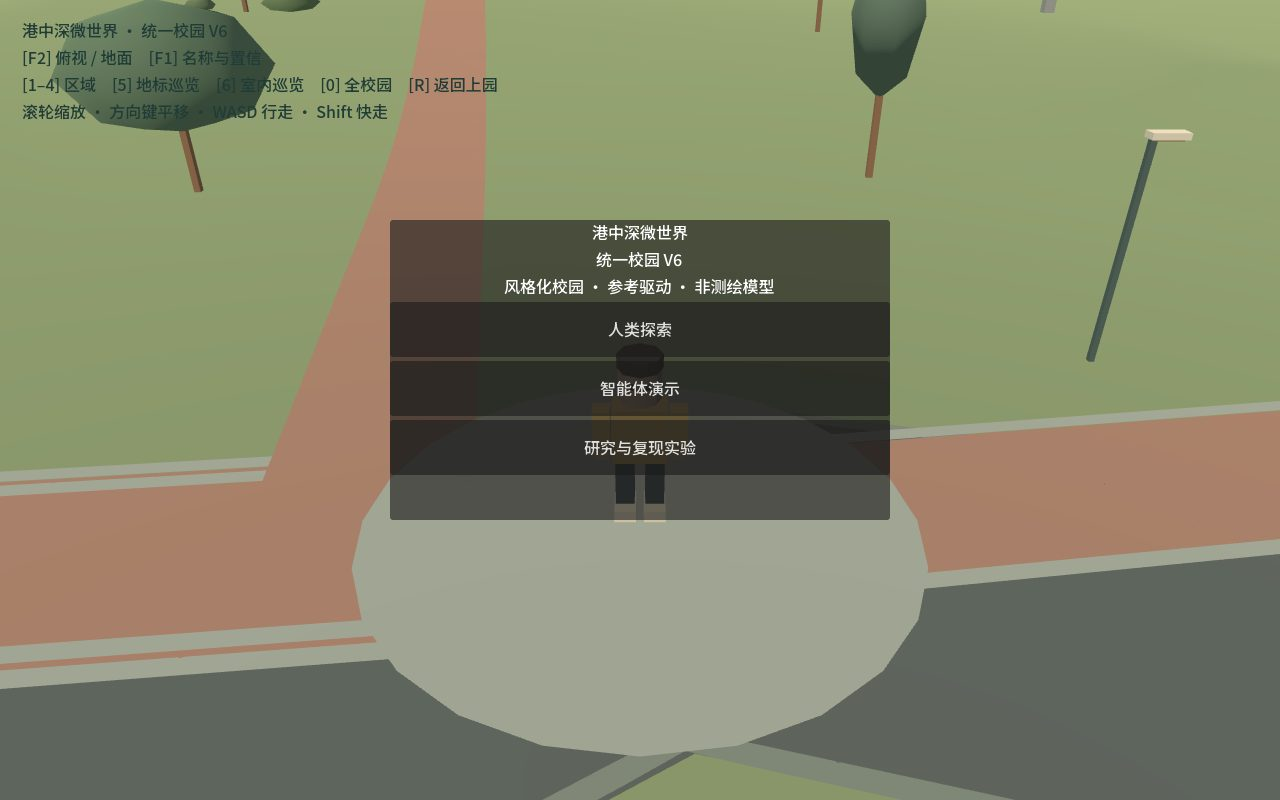
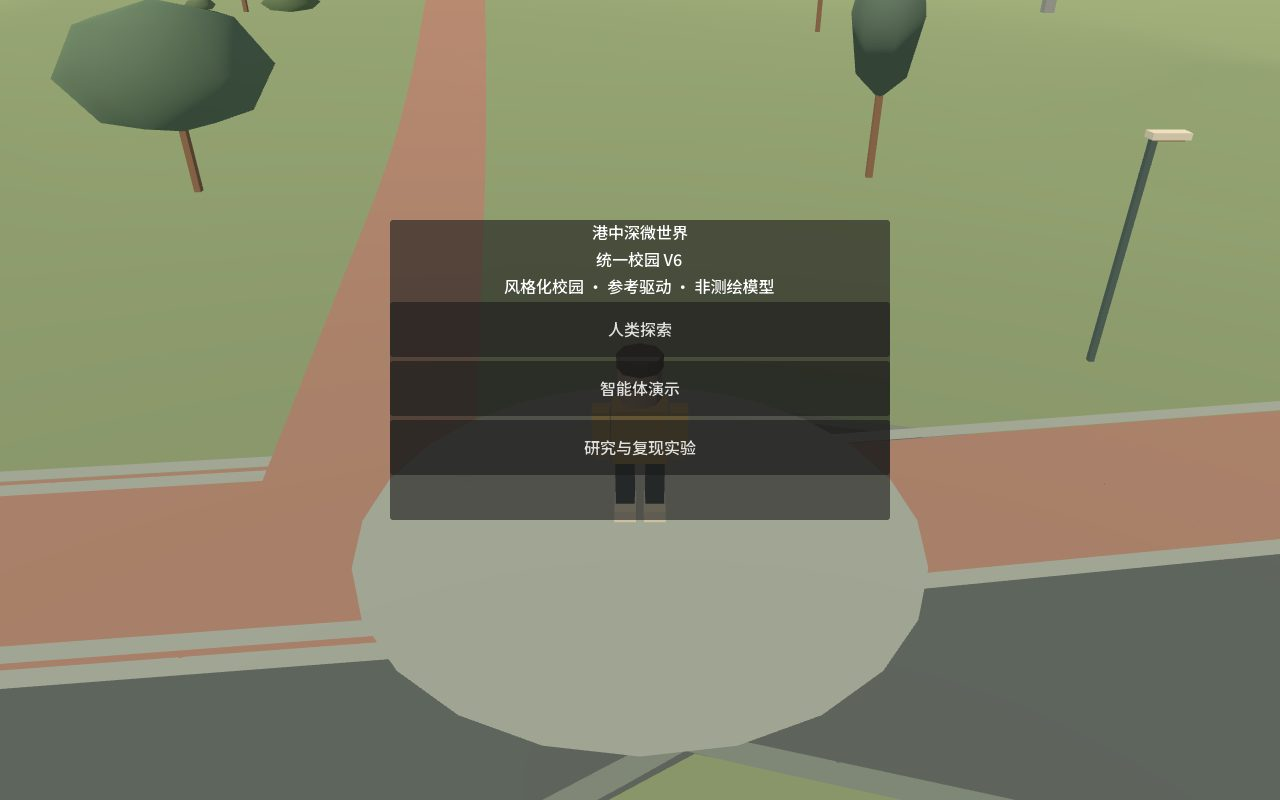
docs(release): record merged V6 and fresh main clone acceptance

Changed region(s): [[0.0, 0.0312, 0.1875, 0.1562], [0.1875, 0.0938, 0.4062, 0.1562]]

diff --git a/docs/MAIN_PRODUCT_V6_RELEASE.md b/docs/MAIN_PRODUCT_V6_RELEASE.md
@@ -1,6 +1,6 @@
 # Unified Campus V6 — main product acceptance
 
-2026-10-07. Product candidate: `agent/unified-campus-v6`, based on immutable V5 `af907bcc3926fc1330a2e29a224e8547e9906682`. Main promotion uses a normal merge preserving collaborator history. The final merge and fresh-main-clone evidence are recorded below after those operations complete.
+2026-10-07. Product built on immutable V5 `af907bcc3926fc1330a2e29a224e8547e9906682`. [PR #1](https://github.com/jasperjlou/CUHKSZ-MicroWorld/pull/1) was normally merged into main at `e26a8a2470e4df266ba4aa6314df9be460b6d24b`, preserving all preceding collaborator history. Fresh-main-clone validation passed.
 
 ## Product
 
@@ -27,9 +27,22 @@ These are scripted inputs and rendered viewport captures, **not manual first-tim
 
 Sequential uncapped render measurements use Godot 4.5.1 Compatibility on Intel Arc 130T. The same background application remains present for both versions. These small machine-specific samples are descriptive, not a portable FPS guarantee. Final baseline/current measurements are in [receipt](MAIN_PRODUCT_V6_RECEIPT.json). Headless timing is explicitly not rendering performance.
 
+| Sample | V5 | V6 |
+|---|---:|---:|
+| Scene startup | 676 ms | 806 ms |
+| 120-frame Human overview average | 5.172 ms | 3.451 ms |
+| Overview draw calls | 513 | 516 |
+| Overview nodes | 2,497 | 2,509 |
+
+V6 during physical library navigation measured 2.848 ms / 98 draw calls; library idle view 2.471 ms / 90. Actual navigation accumulated 376 physics samples and 30.839 game units, 0.033 ms planning, 6.265 s wall time. The short overview difference is not evidence of a general performance improvement; no obvious regression was observed in these samples.
+
 ## Publication and clean clone
 
-Pending normal main merge and fresh remote-main clone validation. Do not treat this subsection as completed until the recorded main SHA and clone gates are present in the receipt.
+A fresh remote-main clone at `f5b6dc0c222efd22eb00ff25d0e227b41c7fc6dc` rebuilt its own Godot import cache, then passed the 353-check / 77-episode suite and 15-check rendered normal-product smoke. The engine executable was supplied externally; no developer `.godot` cache, `.tools` folder, reference originals or legacy models were copied into the clone. The normal Human button drove the original body; Tab opened the phone and the reply button updated shared state. The normal Agent button physically reached the library public stairs and exit through 12 demo actions.
+
+One Windows console encoding defect interrupted the *driver output* after the RC1 core had passed. Main `4ab5d0b8992e4f4a05b639ffe2088e1b76e4469a` fixed UTF-8 output and added V6 source import metadata; the clone was normally fast-forwarded and both RC1 core **279 / 0** and contract **77 / 0** were rerun successfully. No gameplay source changed after the clone's physical tests. Generated historical editor sidecars remain local; tracked source diff is empty.
+
+Final documentation/capture cleanup is followed by a normal main push, clone fast-forward and source/link audit. The annotated `v2.0.0-beta1` tag identifies that final main documentation commit (`refs/tags/v2.0.0-beta1^{commit}`), rather than replacing RC1. Main and the public repository remain public with unchanged collaborator permissions. Original V4/V5 branches and all historical QA receipts are retained.
 
 ## Limits and preservation
 
@@ -38,4 +51,5 @@ Pending normal main merge and fresh remote-main clone validation. Do not treat t
 - V6 shuttle stop meshes are placeholders; boarding is unavailable. Historical RC1 transport remains separate.
 - No paid model calls, AI NPCs, new research benchmark scores or new geometry are introduced.
 - No raw reference media, unclear-license legacy assets, LFS or new blanket license is added.
+- File-size scan found only the previously tracked 17,772,300-byte NotoSansSC font above 10 MB, with its existing SIL OFL notice. No tracked file exceeds 50 or 100 MB. New screenshots are compact, project-rendered JPEGs.
 - Bounded execution failures remain explicit; no teleport, collision bypass or hidden success mutation is allowed.

diff --git a/docs/PROJECT_STATE.md b/docs/PROJECT_STATE.md
@@ -2,7 +2,7 @@
 
 V6 将人类探索与智能体导航接入同一校园场景：44 栋外观、10 处公共室内、7 处公共楼梯平台。原角色控制器与 GodotPhysics3D 不变；导航通过真实身体移动，禁止步行传送。地点、时间、事件、日志、验证与实体动作重放统一接入。
 
-根目录 `启动港中深MicroWorld.cmd` 打开中文模式菜单；人类探索、智能体演示和 RC1 复现实验也有独立入口。历史启动器归档到 `tools/launchers/archive/`。本轮在 `agent/unified-campus-v6` 验收，通过全部门槛后正常合入 main；RC1 标签不可变。
+根目录 `启动港中深MicroWorld.cmd` 打开中文模式菜单；人类探索、智能体演示和 RC1 复现实验也有独立入口。历史启动器归档到 `tools/launchers/archive/`。V6 已通过 PR #1 正常合入 main；RC1 标签保持不变。完整发布与全新克隆结果见发布验收记录。
 
 室内仍是可替换推断空间；高桌晚宴是活动原型；V6 接驳站仅视觉占位，不提供虚构的乘车能力。验证是原控制器驱动的自动试玩，不是学生首次人工体验或真实模型研究。
 

diff --git a/README.md b/README.md
@@ -2,7 +2,7 @@
 
 A stylized, reference-grounded 3D CUHK-Shenzhen campus world shared by humans and software agents.
 
-**Unified Campus V6 / 2.0.0-beta1** brings the campus product to main after release acceptance. Human and Agent inhabit the same geometry, doors, stairs, interiors and physics world.
+**Unified Campus V6 / 2.0.0-beta1** is the current main product, accepted from a fresh remote-main clone. Human and Agent inhabit the same geometry, doors, stairs, interiors and physics world.
 
 - Upper / Middle / Fairy Lake / Lower campus.
 - 44 modeled exterior buildings and ten enterable public interiors.
